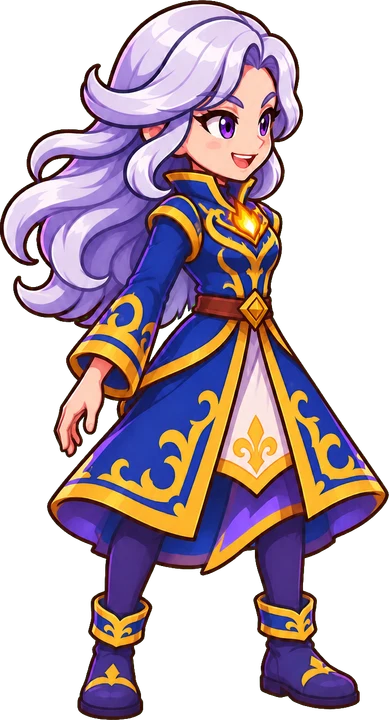
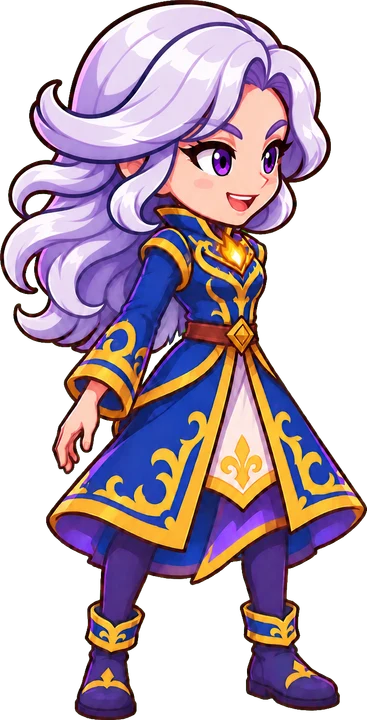
Fixes for Ysolde

diff --git a/app/(protected)/(art)/data/rigs.ts b/app/(protected)/(art)/data/rigs.ts
@@ -176,7 +176,7 @@ interface ArmJoints {
 const DEFAULT_ARM: ArmJoints = { shoulder: [0.67, 0.37], top: [0.28, 0.12], wrist: [1.12, 0.91] }
 const BRANN_ARM: ArmJoints = { shoulder: [0.235, 0.317], top: [0.37, 0.15], wrist: [0.83, 0.89] }
 const OREN_ARM: ArmJoints = { shoulder: [0.24, 0.32], top: [0.45, 0.2], wrist: [0.815, 0.89] }
-const YSOLDE_ARM: ArmJoints = { shoulder: [0.675, 0.32], top: [0.11, 0.27], wrist: [0.82, 0.34] }
+const YSOLDE_ARM: ArmJoints = { shoulder: [0.678, 0.362], top: [0.11, 0.27], wrist: [0.82, 0.34] }
 const YSOLDE_ATTACK: NonNullable<Rig['attack']> = {
   arm: [
     [0, 0],
@@ -276,7 +276,7 @@ export function heroRig(id: CharacterId, loadout: Loadout = HERO_LOADOUTS[id]): 
   const arm = brann ? BRANN_ARM : oren ? OREN_ARM : ysolde ? YSOLDE_ARM : DEFAULT_ARM
   const armSize: SlotSize = oren
     ? { segment: 1, side: 'height', length: 0.34 }
-    : { ...SIZES.arm, length: brann ? 0.25 : ysolde ? 0.3 : SIZES.arm.length }
+    : { ...SIZES.arm, length: brann ? 0.25 : ysolde ? 0.282 : SIZES.arm.length }
   const bowString = ranged ? BOW_STRINGS[id] : undefined
 
   return {
